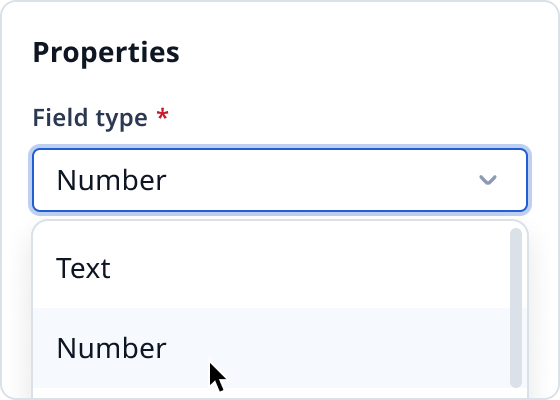
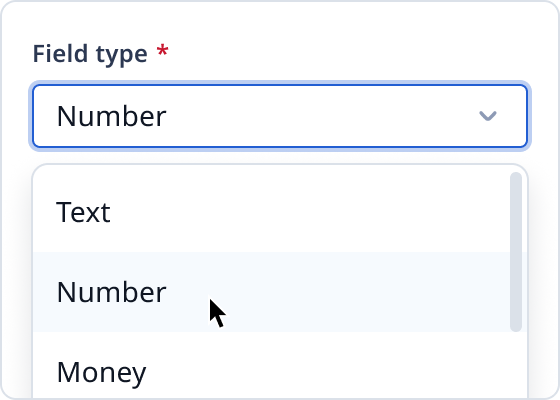
Fixes

diff --git a/objectbuilder.html b/objectbuilder.html
@@ -368,9 +368,9 @@
                     <h4>Reduced setup time to minutes*</h4>
                     <p class="content-weaker">Reduced the time required for the Solutions team to setup new orgs from <b class="content-highlight"> 1-3 hours to just a few minutes</b></p>
                   </div>
-                </div> 
-                <p class="caption">*Numbers are based on usage of .JSON config templates, a tool co-developed by another team for exporting Objects customized via Object Builder.</p>
+                </div>
               </div>
+              <p class="caption">*Numbers are based on usage of .JSON config templates, a tool co-developed by another team for exporting Objects customized via Object Builder.</p>
             </section>
             <section id="section3-3" class="section spacer-top">
               <h3 class="spacer-bottom-sm">Feedback</h3>
@@ -488,8 +488,15 @@
                             <p class="content-weaker">Users requested<b class="content-highlight"> improved in-app guidance on the different types of custom fields</b>, along with examples to illustrate when to use each one effectively.</p>
                           </div>
                           <div class="col-12 col-lg-6">
-                            <img src="./files/objectbuilder/p1-creation.png" class="spacer-bottom-xs img-responsive">
-                            <p class="caption">With many options available, it was difficult to understand the differences between them.</p>
+                            <!-- Use a class instead of ID -->
+                            <img class="toggle-image img-responsive spacer-bottom-xs" src="./files/objectbuilder/p1-creation.png" alt="Toggle Image">
+                            <p class="caption">With numerous options available, distinguishing between them proved challenging.</p>
+
+                            <!-- Tabs underneath the image -->
+                            <div class="tab-container">
+                              <div class="tab active" data-image="./files/objectbuilder/p1-creation.png" data-caption="With numerous options available, distinguishing between them proved challenging.">Before</div>
+                              <div class="tab" data-image="./files/objectbuilder/p1-creation-after.png" data-caption="Providing descriptions and icons for each option enhanced clarity.">After</div>
+                            </div>
                           </div>
                         </div>
                       </div>
@@ -522,7 +529,7 @@
               <hr class="hr">
               <section id="section4-2" class="section spacer-top">
                 <h3>Impact</h3>
-                <p class="spacer-bottom-sm">In just four weeks, the Solutions team realized substantial value from the PoC:</p>
+                <p class="spacer-bottom-sm">Over the following months, Object Builder has become essential to our Platform sales strategy.</p>
                 <div class="row">
                   <div class="col-lg-6 d-flex mb-4">
                     <div class="callout">

diff --git a/css/main.css b/css/main.css
@@ -452,7 +452,7 @@ a .logo {
 }
 
 .pronunciation{
-  margin-left: 5px;
+  margin-left: 8px;
   font-size: 2rem;
   border: none;
   background: none;
